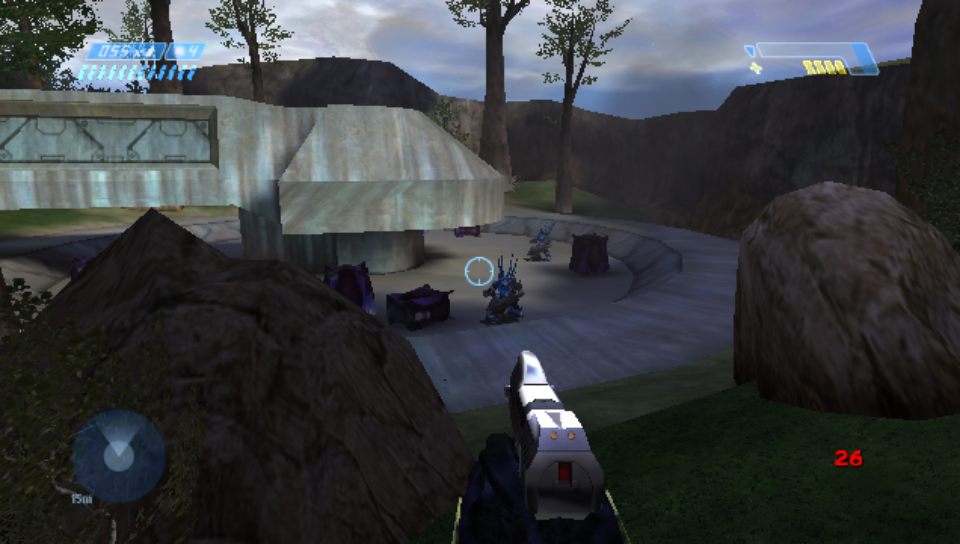
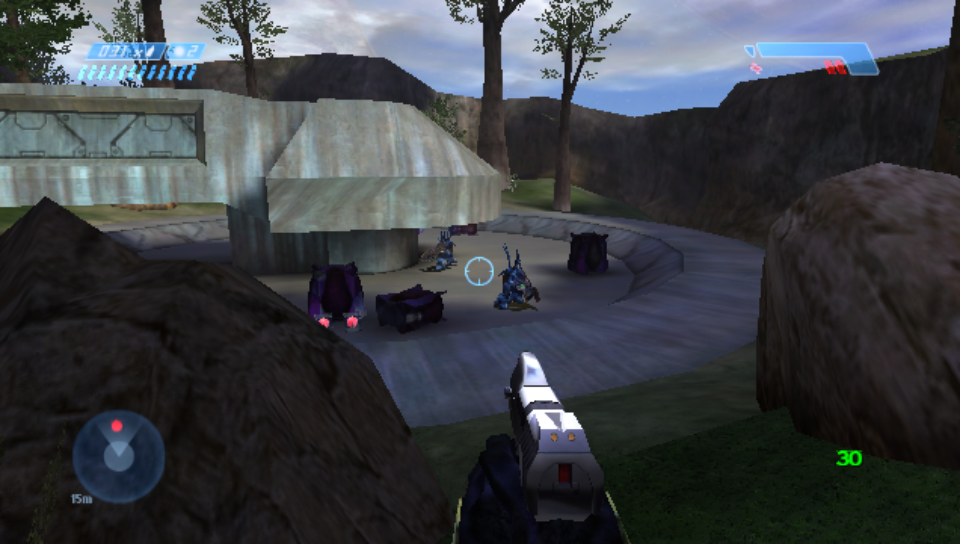
README: screenshots from the Vita (The Silent Cartographer, Blood Gulch)
Claude-Session: https://claude.ai/code/session_011ucYZ9cvWn3nrnk7kK3S5X

diff --git a/README.md b/README.md
@@ -8,9 +8,14 @@ translated to the Vita's GPU.
 **No game data is included.** You need your own Xbox copy of Halo: Combat
 Evolved.
 
-![Blood Gulch on a PS Vita](docs/screenshots/blood-gulch.png)
+![A Warthog on The Silent Cartographer's beach, on a PS Vita](docs/screenshots/warthog-beach.png)
 
-*Blood Gulch on a PS Vita (a screenshot taken on the console).*
+| | |
+| --- | --- |
+| ![Two Pelicans over the sea in The Silent Cartographer's opening](docs/screenshots/pelicans.png) | ![Landing on The Silent Cartographer's beach](docs/screenshots/beach-landing.png) |
+| ![Covenant at a Blood Gulch base](docs/screenshots/blood-gulch.png) | |
+
+*Screenshots taken on a PS Vita.*
 
 ## What works
 
